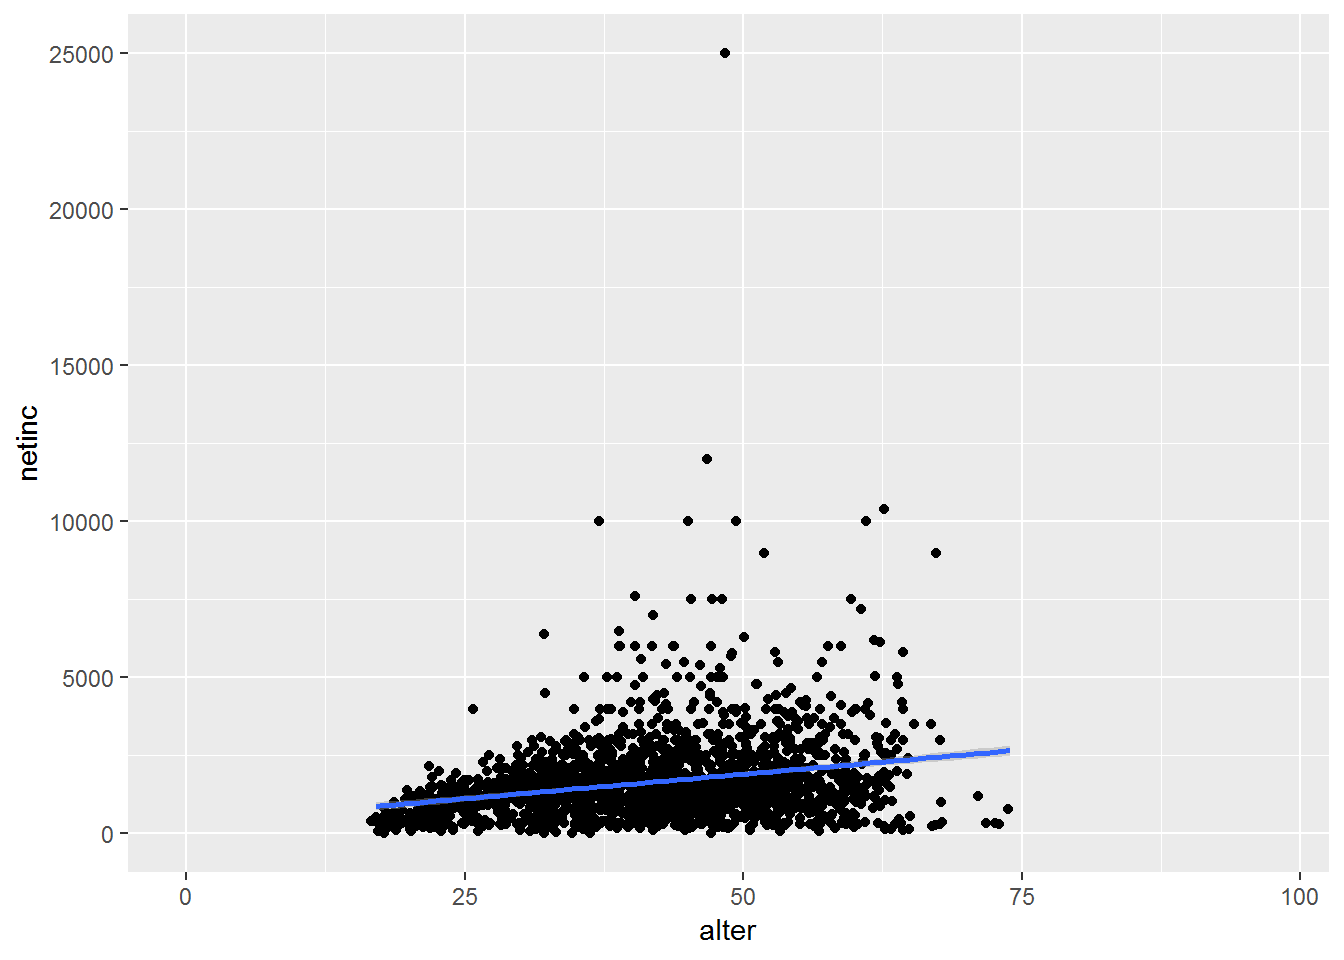
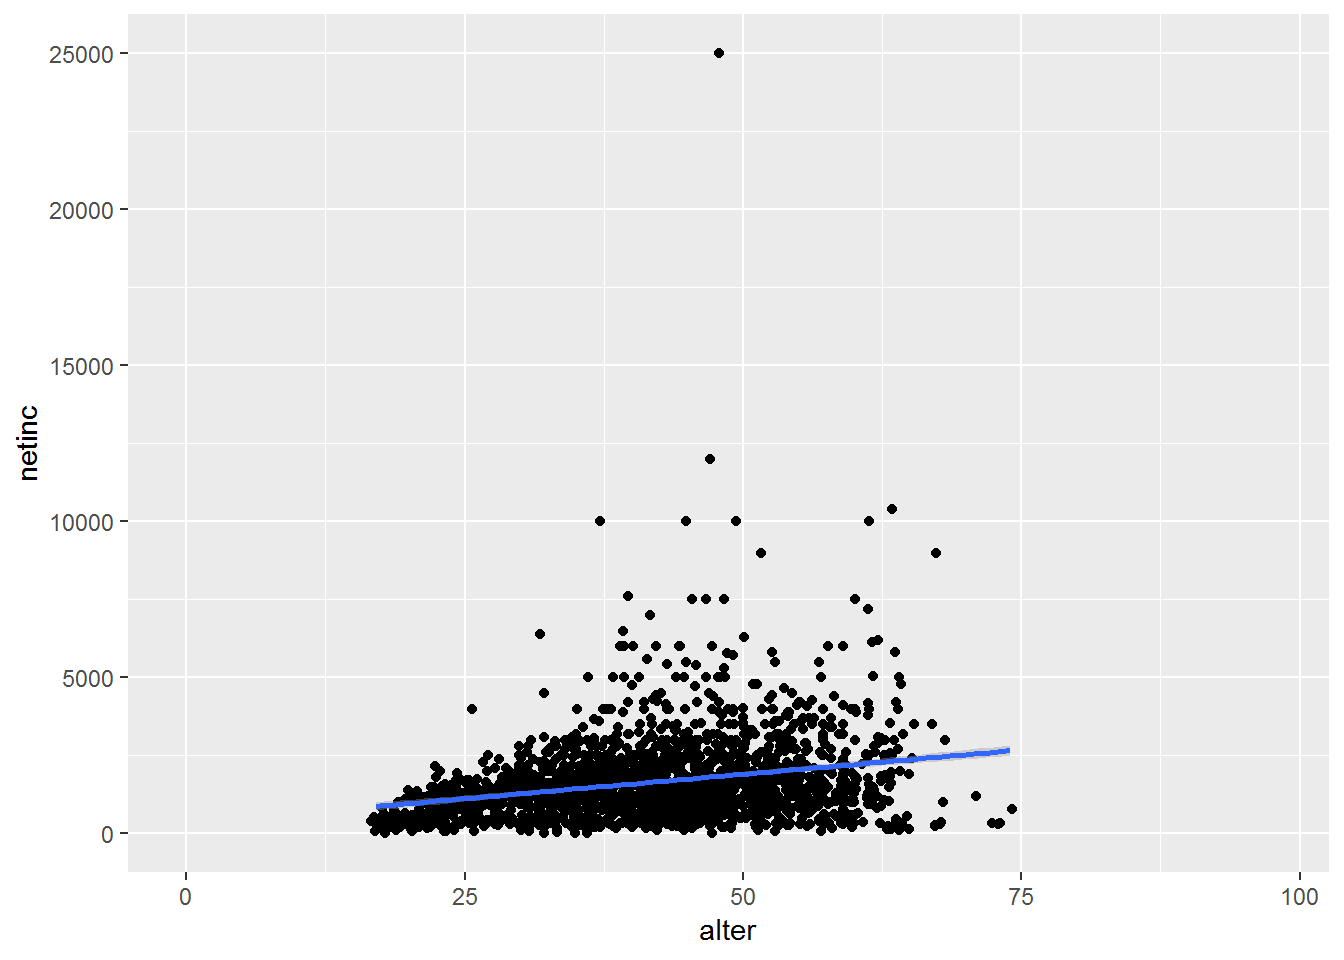
prepare for jekyll theme

diff --git a/docs/datamanagement.html b/docs/datamanagement.html
@@ -499,12 +499,12 @@ econ$netinc = recode(econ$tp7602,&quot;-3=NA;-2=NA;-1=NA&quot;)
 econ_data &lt;- econ[,c(&quot;netinc&quot;,&quot;alter&quot;,&quot;sex&quot;,&quot;contract&quot;,&quot;actual&quot;,&quot;trust&quot;,&quot;rely&quot;)]
 head(econ_data)</code></pre>
 <pre><code>##       netinc alter      sex contract actual trust rely
-## 4736      NA    12 männlich       NA     NA    NA   NA
-## 2576    1000    28 weiblich       40     43     2    2
-## 5388      NA     7 männlich       NA     NA    NA   NA
-## 11696     NA    75 weiblich       NA     NA     3    1
-## 13019     NA    15 weiblich       NA     NA    NA   NA
-## 3253      NA    35 weiblich       NA     NA    NA   NA</code></pre>
+## 6894    4180    58 männlich     38.5   45.0     2    2
+## 2767      NA     7 männlich       NA     NA    NA   NA
+## 8001      NA    11 männlich       NA     NA    NA   NA
+## 7428      NA    51 männlich     37.5   42.5     3    2
+## 13929     NA     9 männlich       NA     NA    NA   NA
+## 8000    1982    47 männlich     38.5   38.5     4    2</code></pre>
 <pre class="r"><code># Delete NAs
 econ_data &lt;- na.omit(econ_data)
 
@@ -513,8 +513,8 @@ econ_data &lt;- na.omit(econ_data)
 hist(econ$netinc)</code></pre>
 <p><img src="datamanagement_files/figure-html/unnamed-chunk-2-1.png" width="672" /></p>
 <pre class="r"><code>quantile(econ_data$netinc)</code></pre>
-<pre><code>##   0%  25%  50%  75% 100% 
-##    0  810 1340 1900 8000</code></pre>
+<pre><code>##    0%   25%   50%   75%  100% 
+##     0   850  1350  1900 10388</code></pre>
 <pre class="r"><code>econ_data$inc_kat &lt;- NA
 econ_data$inc_kat [econ_data$netinc &lt; quantile(econ_data$netinc)[2]] &lt;- &quot;Q1&quot;
 econ_data$inc_kat [econ_data$netinc &gt;= quantile(econ_data$netinc)[2] &amp; econ_data$netinc &lt; quantile(econ_data$netinc)[3]] &lt;- &quot;Q2&quot;
@@ -524,7 +524,7 @@ econ_data$inc_kat [econ_data$netinc &gt;= quantile(econ_data$netinc)[4] ] &lt;- 
 table(econ_data$inc_kat)</code></pre>
 <pre><code>## 
 ##  Q1  Q2  Q3  Q4 
-## 422 423 409 437</code></pre>
+## 427 426 417 439</code></pre>
 </div>
 <div id="advanced-dm-the-tidyverse" class="section level1">
 <h1><span class="header-section-number">3</span> Advanced DM: The tidyverse</h1>
@@ -538,12 +538,12 @@ table(econ_data$inc_kat)</code></pre>
 
 head(econ_data)</code></pre>
 <pre><code>##   netinc alter      sex contract actual trust rely inc_kat alter_squared
-## 1   1000    28 weiblich     40.0   43.0     2    2      Q2           784
-## 2   2500    41 männlich     40.0   50.0     2    2      Q4          1681
-## 3   2800    33 männlich     35.0   40.0     2    3      Q4          1089
-## 4   1000    53 weiblich     38.5   38.5     2    2      Q2          2809
-## 5   2000    39 männlich     37.0   37.0     3    2      Q4          1521
-## 6    880    22 weiblich     40.0   40.0     2    3      Q2           484</code></pre>
+## 1   4180    58 männlich     38.5   45.0     2    2      Q4          3364
+## 2   1982    47 männlich     38.5   38.5     4    2      Q4          2209
+## 3   2600    43 weiblich     40.0   60.0     3    1      Q4          1849
+## 4   1100    44 weiblich     30.0   32.0     2    3      Q2          1936
+## 5   1600    51 männlich     40.0   40.0     2    3      Q3          2601
+## 6   1400    48 männlich     37.5   40.0     2    2      Q3          2304</code></pre>
 </div>
 <div id="summarise" class="section level2">
 <h2><span class="header-section-number">3.2</span> Summarise</h2>
@@ -551,8 +551,8 @@ head(econ_data)</code></pre>
 <pre class="r"><code>econ_data %&gt;% 
   summarise(mean = mean(alter,na.rm = T),
             sd = sd(alter,na.rm = T))</code></pre>
-<pre><code>##       mean       sd
-## 1 40.47191 11.45026</code></pre>
+<pre><code>##     mean       sd
+## 1 40.677 11.45569</code></pre>
 </div>
 <div id="group_by" class="section level2">
 <h2><span class="header-section-number">3.3</span> group_by</h2>
@@ -564,7 +564,7 @@ head(econ_data)</code></pre>
 <pre><code>## # A tibble: 1 x 2
 ##    mean    sd
 ##   &lt;dbl&gt; &lt;dbl&gt;
-## 1  40.5  11.5</code></pre>
+## 1  40.7  11.5</code></pre>
 </div>
 </div>
 

diff --git a/docs/index.html b/docs/index.html
@@ -436,7 +436,7 @@ div.tocify {
 <li><p>generate straight forward regressions.</p></li>
 </ul>
 <p>~75% of our class will be hands-on - e.g. we solve coding problems from real life data (which are relevant for ISG) together. All code and necessary data can be downloaded from this site.</p>
-<p>With this and thiS!!</p>
+<p>With this and thiS!! and now with jekyll</p>
 <p>Die Seite ist in Englisch, weil alle meine anderen R Tutorien/Kurse auch in Englisch waren - please forgive me.</p>
 <div id="agenda" class="section level2">
 <h2><span class="header-section-number">1.1</span> Agenda</h2>
